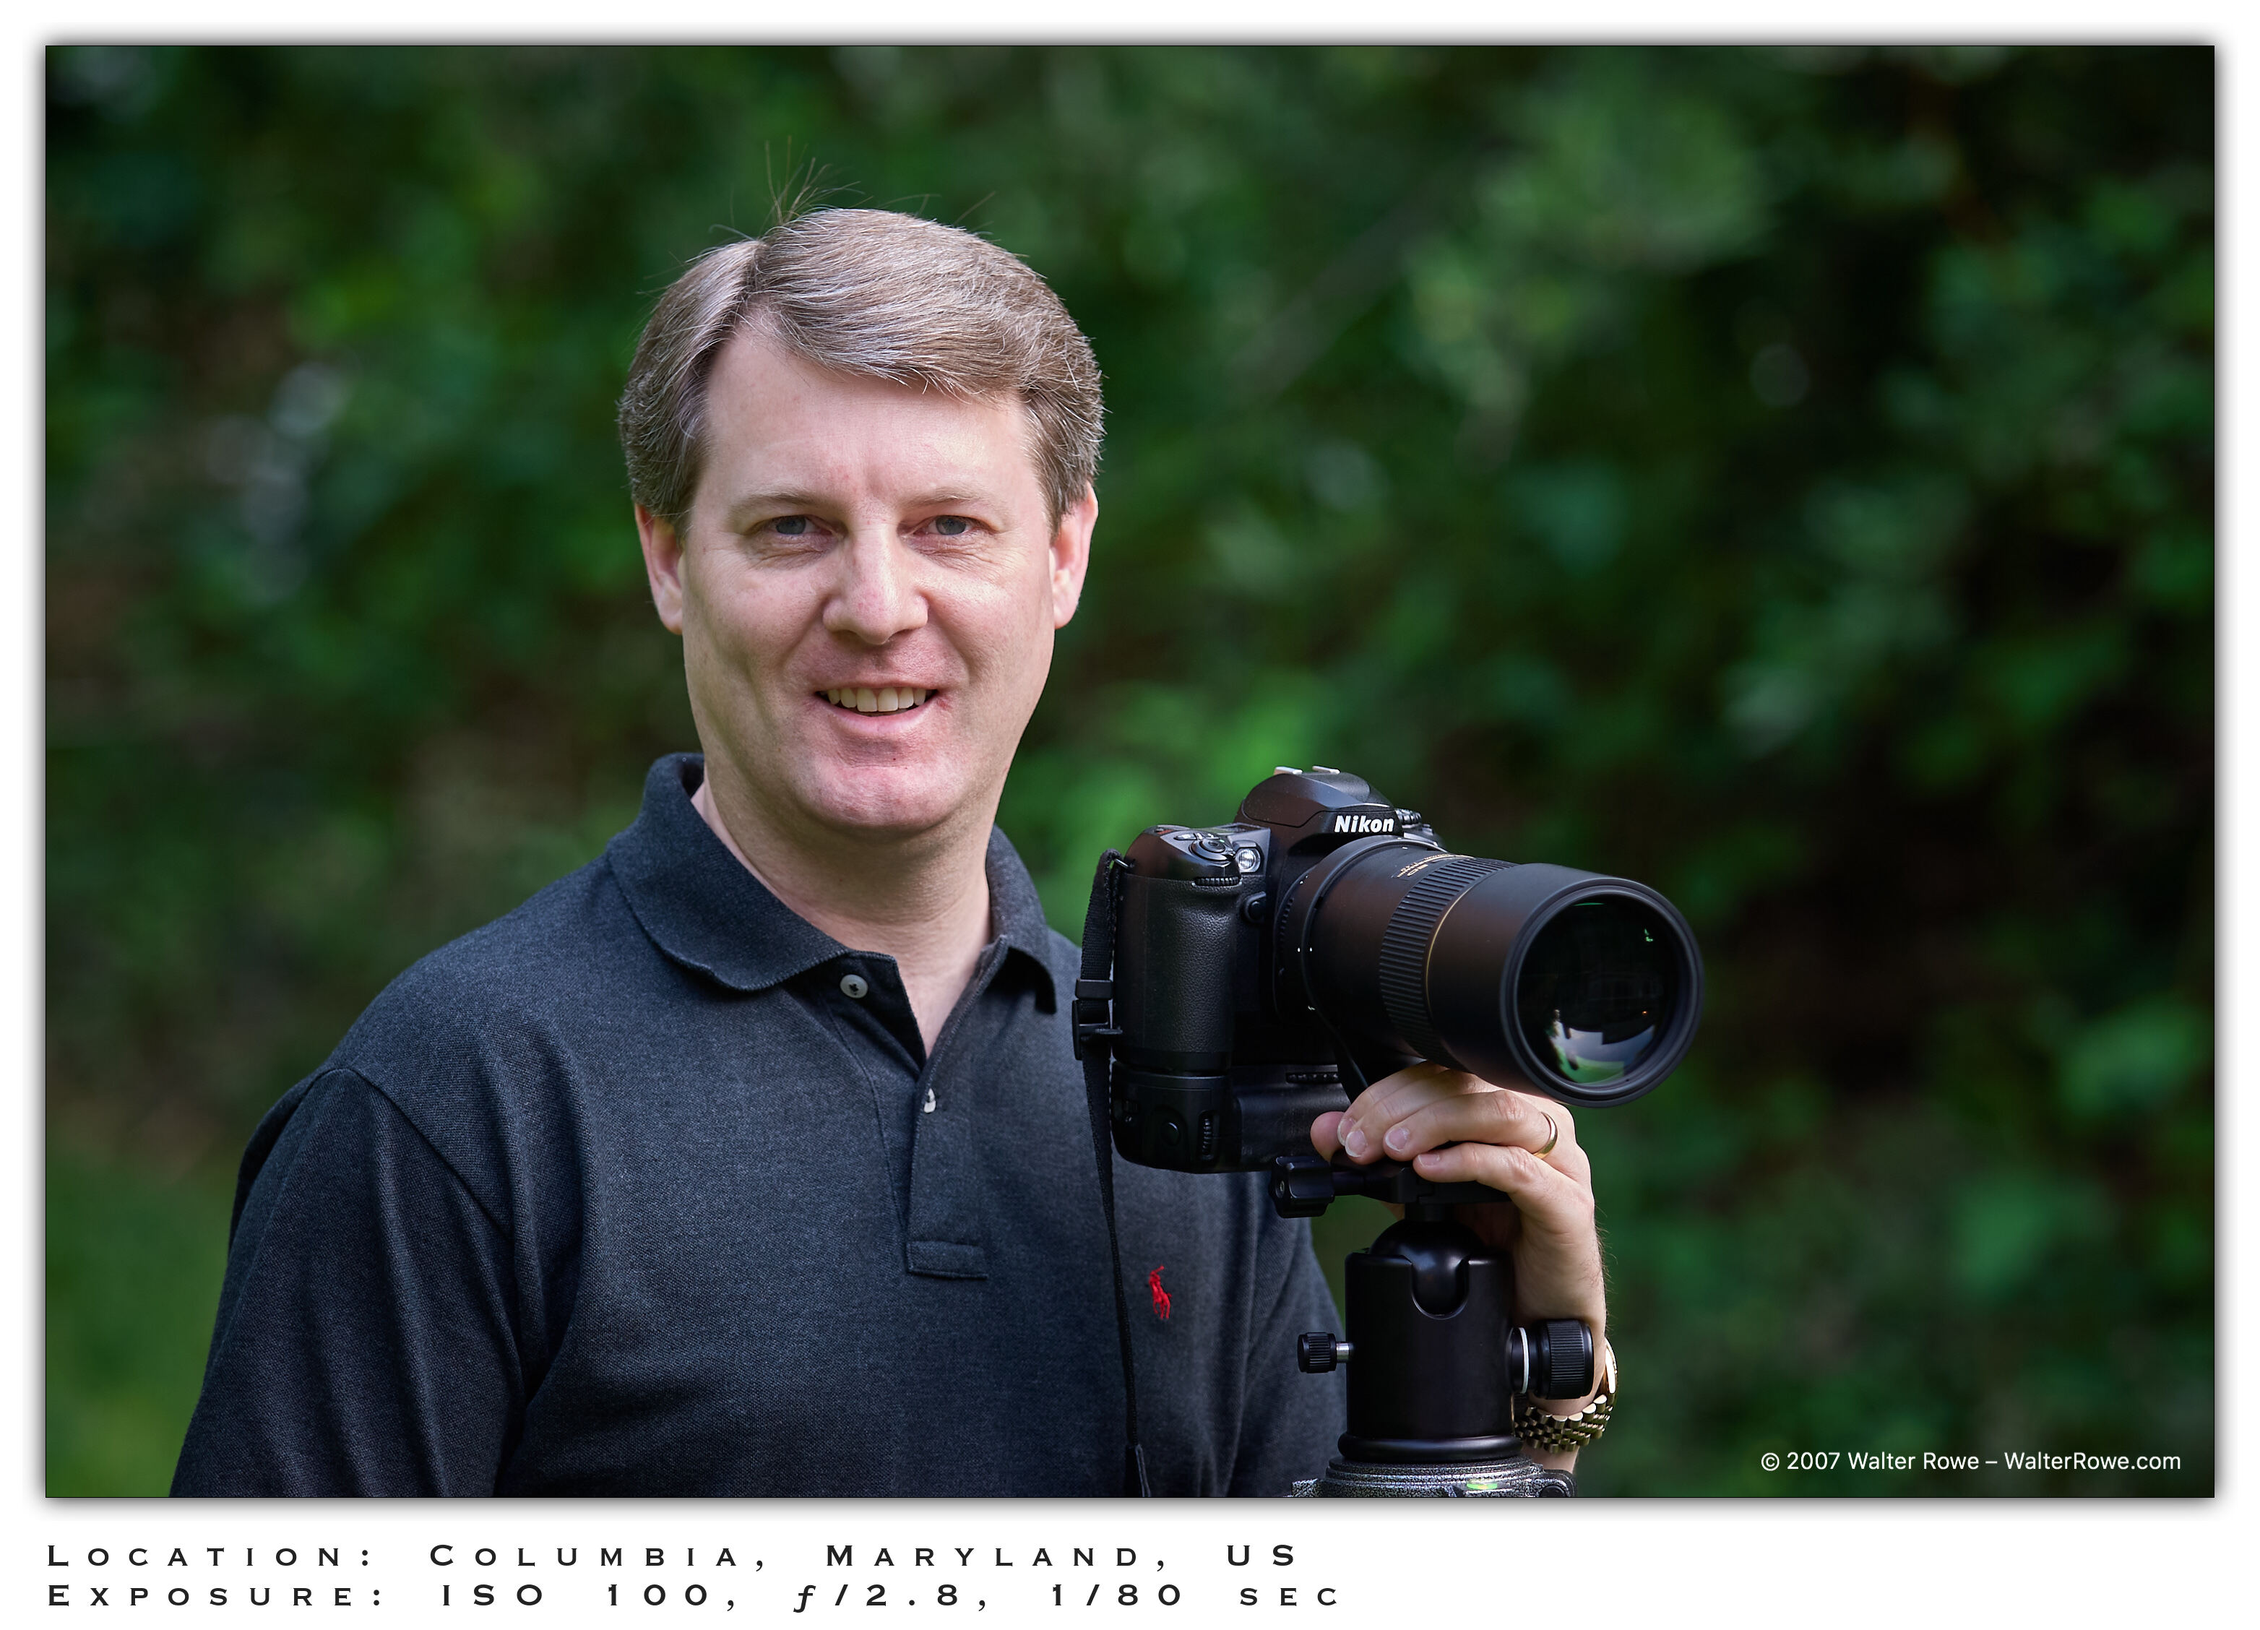
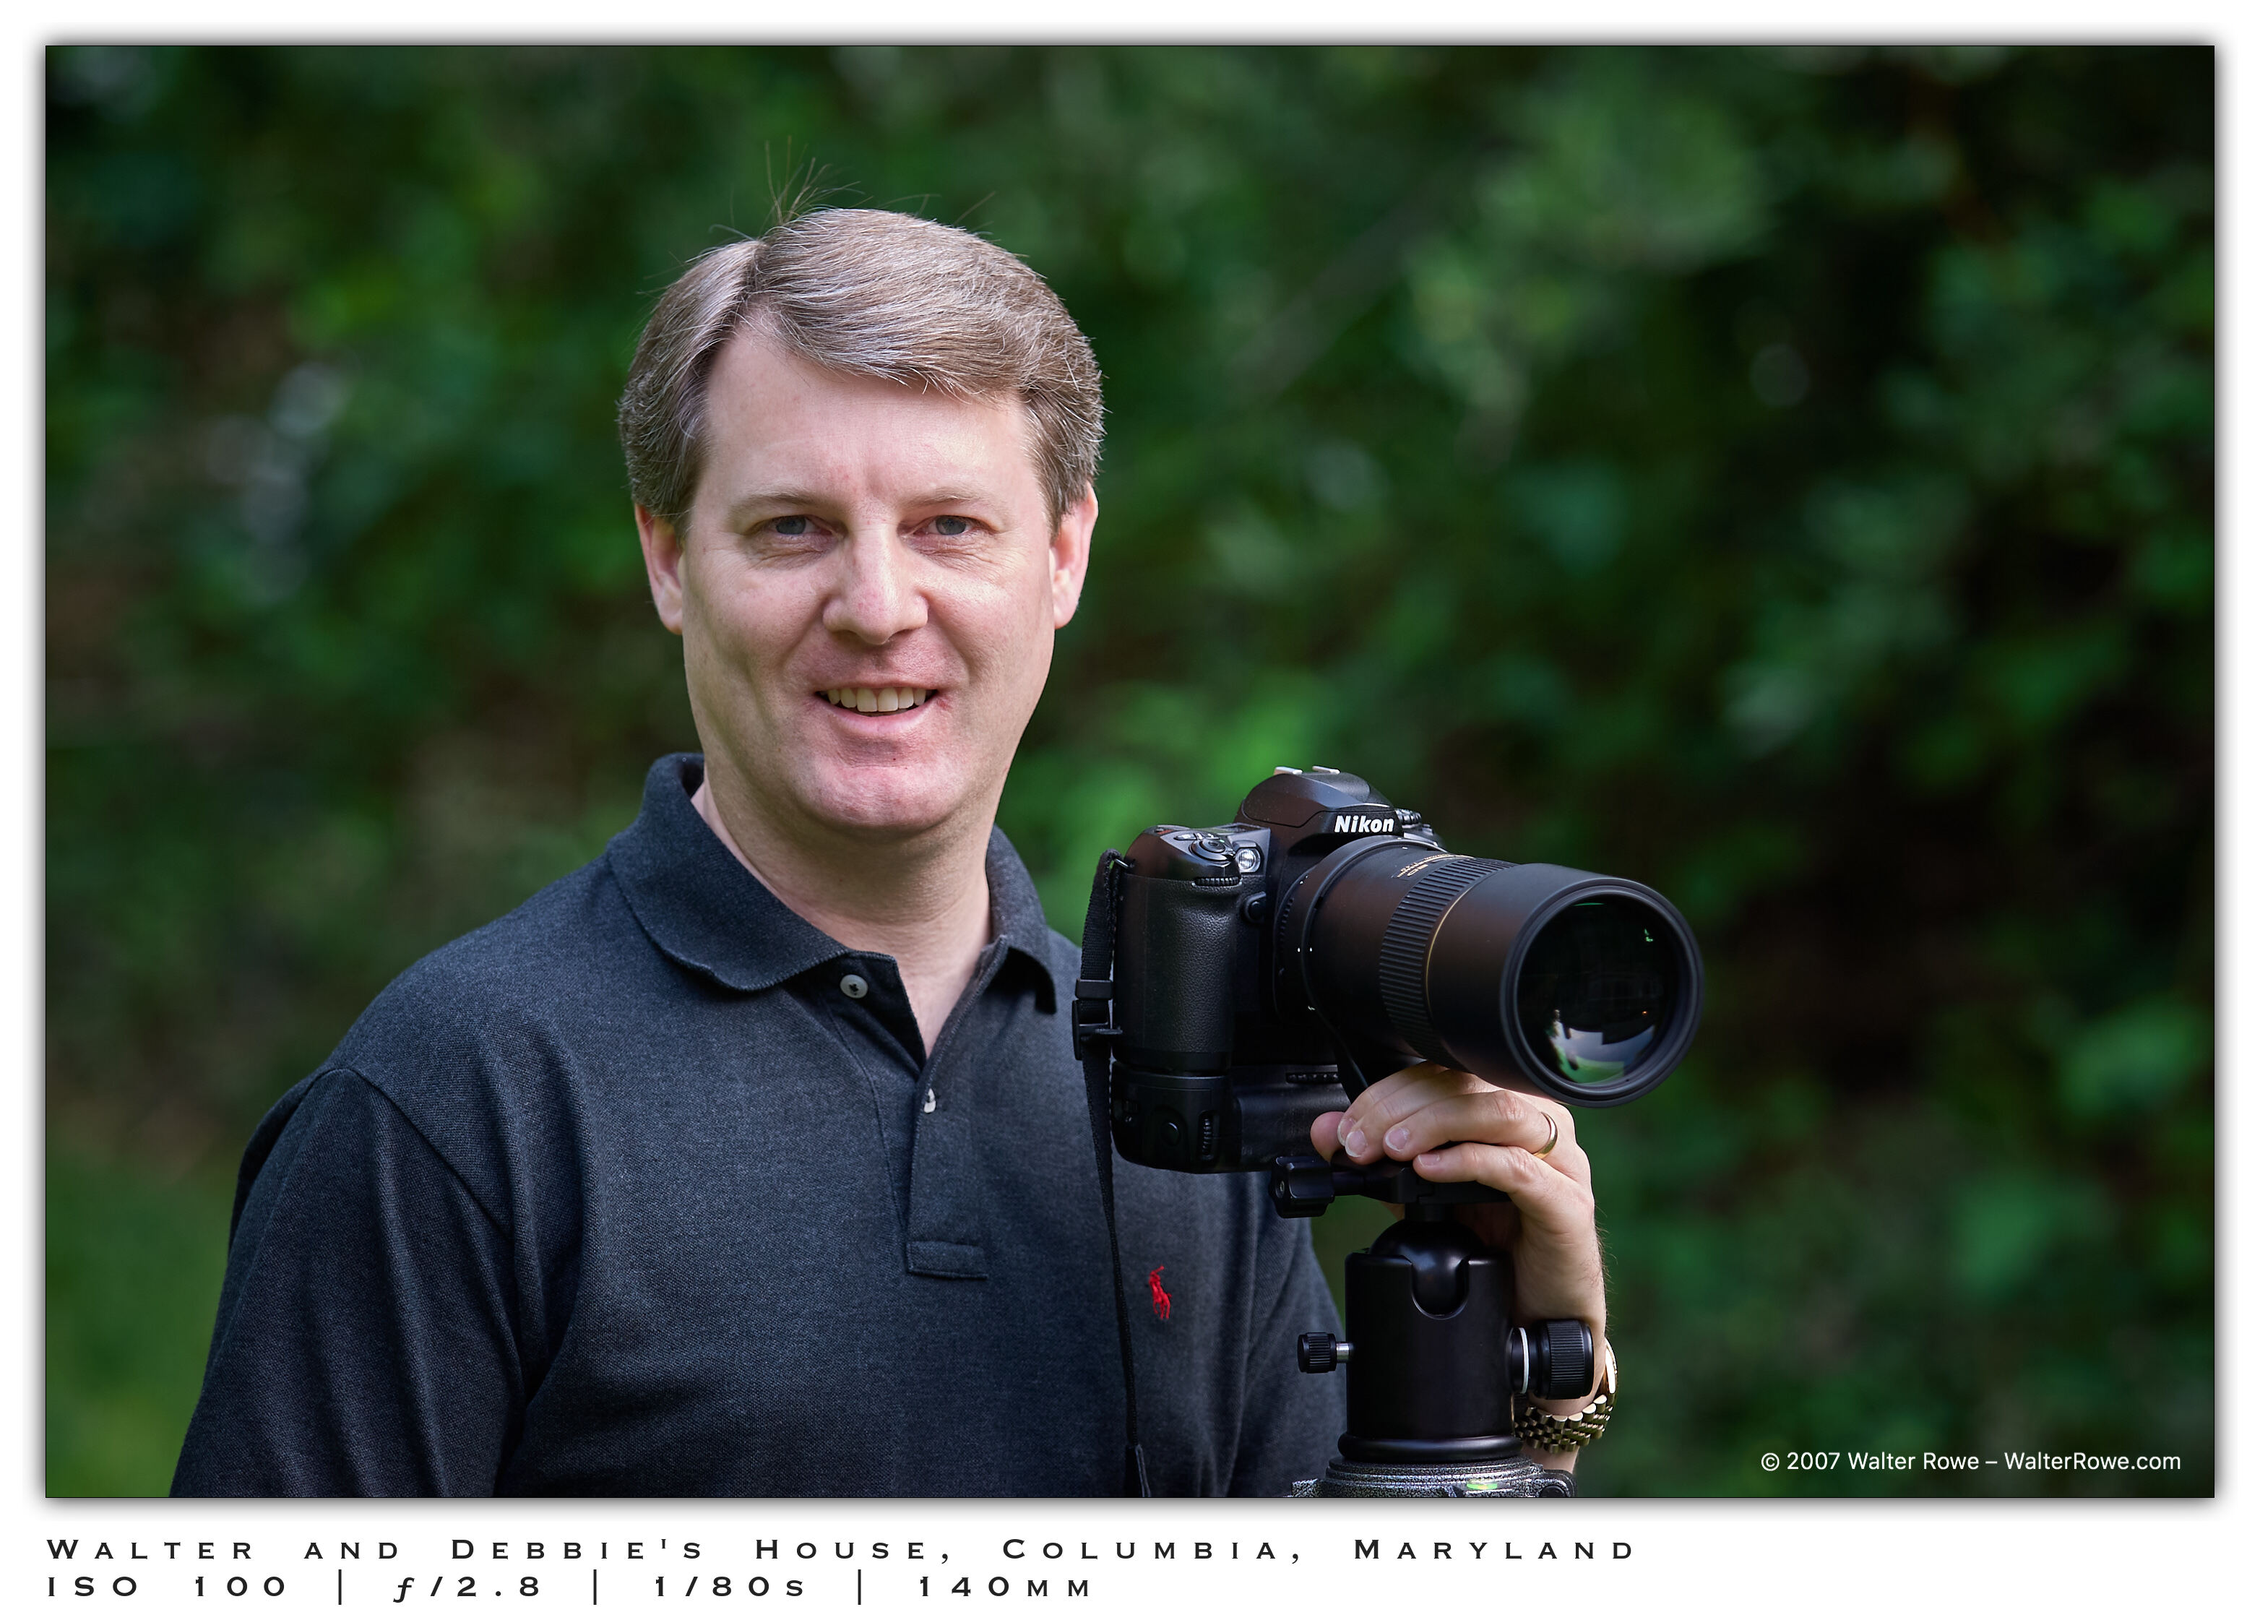
updated metadata example

diff --git a/README.md b/README.md
@@ -24,10 +24,10 @@ Magick Frames makes it fast and easy to apply various styles of elegant borders 
 	The following command produced the image example below it. 
 
 	```
-	frame_it -t --label1="Location: %City, %ProvinceState, %CountryCode" --label2="Exposure: ISO %ISO, ƒ/%Aperture, %ShutterSpeed sec" yourfile.jpg
+	% ./frame_it -t --label1="%Location, %City, %ProvinceState" --label2="%ISO | %Aperture | %ShutterSpeed | %FocalLength" -g=sw ~/Pictures/Walter_Rowe/WPR-20070520-7946.jpg
 	```
 
-	<img src=assets/WPR-20070520-7946-framed.jpg border=1 margin=10px padding=10px>
+	<img src=assets/WPR-20070520-7946-framed.jpg border=1px margin=10px padding=10px>
 
 - (NEW) Simple solid borders have an internal pin-stripe that separates border from picture
 - Matted borders have a shadow on all edges, a drop shadow, or a beveled inside matte edge
